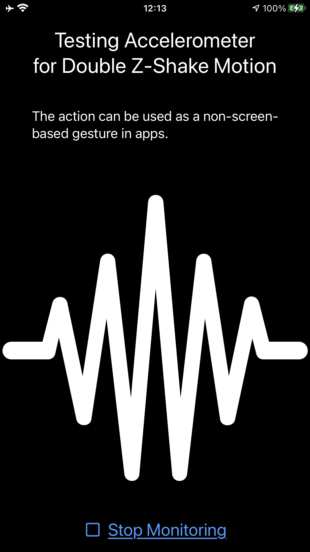
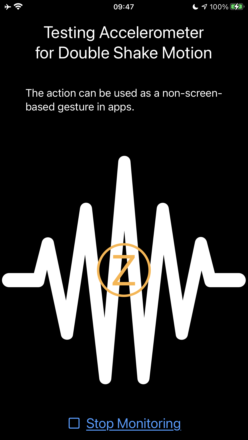
Generalize detection to all axes

diff --git a/CoreMotionGesture/Accelerometer/DoubleShakeDetector.swift b/CoreMotionGesture/Accelerometer/DoubleShakeDetector.swift
@@ -1,0 +1,179 @@
+import SwiftUI
+import Combine
+import CoreMotion
+
+enum MotionError: Error
+{
+    case noDataAvailable
+}
+
+protocol DoubleShakeDetectorProtocol
+{
+    var motionEventStream: MotionEventStreamProtocol? { get }
+    var monitorAxis: MonitorAxis { get }
+    func startMonitoring()
+    func stopMonitoring()
+}
+
+// Detect a double shake gesture.
+//
+// Z-axis example:
+// The Z-axis is the up and down direction according to a phone's screen aligned parallel to the ground, like a tabletop.
+//
+// Only a limited number, keepValueCount, of readings are kept to prevent using more memory.
+// The motionCutoff is the strength of the detected motion according to the standard deviation of readings.
+struct DoubleShakeDetector: DoubleShakeDetectorProtocol
+{
+    let motionManager: CMMotionManager
+    let motionCutoff: Double = 0.55
+    let readingMinimum = 3
+    let keepValueCount = 2
+    let shakeDetectionMinimum = 4
+    let timeWindowMin: TimeInterval = 0.3
+    let timeWindowMax: TimeInterval = 0.8
+    let accelerometerUpdateInterval: TimeInterval = 1 / 100 // 100 Hz
+    let motionEventStream: MotionEventStreamProtocol?
+    let monitorAxis: MonitorAxis
+
+    init(motionManager: CMMotionManager, monitorAxis: MonitorAxis)
+    {
+        self.motionManager = motionManager
+        motionManager.accelerometerUpdateInterval = accelerometerUpdateInterval
+        self.motionEventStream = MotionEventStream()
+        self.monitorAxis = monitorAxis
+    }
+
+    func startMonitoring()
+    {
+        var readingCount = 0
+        var shakeCount = 0
+        var motionValues = [Double]()
+        var queue: OperationQueue
+        var startTime = Date()
+        var endTime = Date()
+
+        if motionManager.isAccelerometerAvailable
+        {
+            queue = .main
+            // We read CMAccelerometerData below.
+            motionManager.startAccelerometerUpdates(to: queue)
+            { data, error in
+                guard error == nil else { fatalError(error!.localizedDescription) }
+                guard let data = data else { fatalError(MotionError.noDataAvailable.localizedDescription) }
+                let value = accelerationValue(data: data)
+
+                // When not using the main queue, EXC_BAD_ACCESS happens here.
+                motionValues.append(value)
+
+                if readingCount <= readingMinimum
+                {
+                    readingCount += 1
+                    startTime = Date()
+                    print("\tread")
+                }
+
+                // We seed readingMinimum readings to ensure detection is active.
+                if readingCount > readingMinimum
+                {
+                    if fabs(standardDeviation(values: motionValues)) > motionCutoff
+                    {
+                        shakeCount += 1
+                    }
+                    if shakeCount > shakeDetectionMinimum
+                    {
+                        endTime = Date()
+                        let interval = endTime.timeIntervalSince(startTime)
+                        if interval <= timeWindowMax && interval >= timeWindowMin
+                        {
+                            print("double shake, interval: \(interval)")
+                            sendMotionEvent()
+                        }
+                        resetReadings()
+                    }
+                }
+                while motionValues.count > keepValueCount
+                {
+                    motionValues.remove(at: motionValues.count - 1)
+                }
+                let interval = endTime.timeIntervalSince(startTime)
+                if interval > timeWindowMax
+                {
+                    startTime = Date()
+                }
+            }
+        }
+
+        func resetReadings()
+        {
+            readingCount = 0
+            shakeCount = 0
+            startTime = Date()
+        }
+    }
+
+    func stopMonitoring()
+    {
+        motionManager.stopAccelerometerUpdates()
+    }
+
+    private func sendMotionEvent()
+    {
+        var event: MotionEvent = .none
+        switch monitorAxis
+        {
+        case .x: event = .doubleXShake
+        case .y: event = .doubleYShake
+        case .z: event = .doubleZShake
+        }
+        motionEventStream?.sendMotionEvent(event: event)
+    }
+
+    private func accelerationValue(data: CMAccelerometerData) -> Double
+    {
+        var accelerationValue: Double?
+        switch monitorAxis
+        {
+        case .x:
+            accelerationValue = data.acceleration.x
+        case .y:
+            accelerationValue = data.acceleration.y
+        case .z:
+            accelerationValue = data.acceleration.z
+        }
+        if let accelerationValue = accelerationValue
+        {
+            return accelerationValue
+        }
+        
+        return 0.0
+    }
+}
+
+extension DoubleShakeDetector
+{
+    func mean(values: [Double]) -> Double
+    {
+        var total = 0.0
+        for value in values
+        {
+            total += value
+        }
+
+        return total / Double(values.count)
+    }
+
+    func standardDeviation(values: [Double]) -> Double
+    {
+        let mean = mean(values: values)
+        var sumOfSquaredDifferences = 0.0
+        var difference = 0.0
+
+        for value in values
+        {
+            difference = value - mean
+            sumOfSquaredDifferences += difference * difference
+        }
+
+        return sqrt(sumOfSquaredDifferences / Double(values.count))
+    }
+}

diff --git a/CoreMotionGesture/View/ContentView.swift b/CoreMotionGesture/View/ContentView.swift
@@ -7,6 +7,10 @@ struct ContentView: View
     let padding: CGFloat = 20
     let visible: CGFloat = 100
     let invisible: CGFloat = 0
+    let axisFontSize: CGFloat = 72
+    let circleWidth: CGFloat = 200
+    let circleLinewidth: CGFloat = 4
+    let circleColor: Color = .orange
     let label: (MonitoringButtonState) -> Label =
     { state in
         Label(state.buttonText(), systemImage: state.imageName())
@@ -27,17 +31,24 @@ struct ContentView: View
         print("detector \(motionEventViewModel.monitoringButtonState)")
         return VStack(spacing: vspace)
         {
-            Text("Testing Accelerometer\nfor Double Z-Shake Motion")
+            Text("Testing Accelerometer\nfor Double Shake Motion")
                 .multilineTextAlignment(.center)
                 .font(.title2)
             Text("The action can be used as a non-screen-based gesture in apps.")
                 .font(.caption)
                 .padding(padding)
             Spacer()
-            Image(systemName: MonitoringSystemImage.doubleZShaked.rawValue)
-                .resizable()
-                .scaledToFill()
-                .opacity(motionEventViewModel.doubleZShaked ? visible : invisible)
+            ZStack
+            {
+                Image(systemName: MonitoringSystemImage.doubleZShaked.rawValue)
+                    .resizable()
+                    .scaledToFill()
+                    .opacity(motionEventViewModel.doubleZShaked ? visible : invisible)
+                Text(motionEventViewModel.motionDetector.monitorAxis.asText())
+                    .font(.system(size: axisFontSize))
+                    .foregroundColor(circleColor)
+                    .overlay(Circle().stroke(circleColor, lineWidth: circleLinewidth).frame(width: circleWidth))
+            }
             Spacer()
             Button
             {
@@ -72,10 +83,9 @@ struct ContentView: View
         {
             await motionEventViewModel
                 .handleMonitoring(
-                    buttonState: motionEventViewModel.monitoringButtonState
-                )
+                buttonState: motionEventViewModel.monitoringButtonState
+            )
         }
-
     }
 }
 
@@ -85,7 +95,7 @@ struct ContentView_Previews: PreviewProvider
     {
         ContentView(
             motionEventViewModel: CoreMotionGestureViewModel(
-                motionDetector: MockMotionDetector()
+                motionDetector: MockMotionDetector(monitorAxis: .z)
             )
         )
     }

diff --git a/CoreMotionGesture/App/CoreMotionGestureApp.swift b/CoreMotionGesture/App/CoreMotionGestureApp.swift
@@ -5,14 +5,15 @@ import CoreMotion
 struct CoreMotionGestureApp: App
 {
     let motionManager: CMMotionManager
-    let motionDetector: DoubleZShakeDetectorProtocol
+    let motionDetector: DoubleShakeDetectorProtocol
     let hapticGenerator: HapticGeneratorProtocol
 
     init()
     {
         self.motionManager = CMMotionManager()
-        self.motionDetector = DoubleZShakeDetector(
-            motionManager: motionManager
+        self.motionDetector = DoubleShakeDetector(
+            motionManager: motionManager,
+            monitorAxis: .z
         )
         self.hapticGenerator = HapticGenerator(
             generator: UINotificationFeedbackGenerator()
@@ -26,9 +27,7 @@ struct CoreMotionGestureApp: App
             ContentView(
                 hapticGenerator: hapticGenerator,
                 motionEventViewModel: CoreMotionGestureViewModel(
-                    motionDetector: DoubleZShakeDetector(
-                        motionManager: CMMotionManager()
-                    )
+                    motionDetector: motionDetector
                 )
             )
         }

diff --git a/CoreMotionGesture/ViewModel/CoreMotionGestureViewModel.swift b/CoreMotionGesture/ViewModel/CoreMotionGestureViewModel.swift
@@ -11,11 +11,11 @@ final class CoreMotionGestureViewModel: ObservableObject, MotionDetectorHandlerP
     @Published var motionEvent: MotionEvent
     @Published var doubleZShaked: Bool
     @Published var monitoringButtonState: MonitoringButtonState
-    let motionDetector: DoubleZShakeDetectorProtocol
+    let motionDetector: DoubleShakeDetectorProtocol
     let waveImageDelay: TimeInterval = 1.5
     var cancellables = [AnyCancellable]()
 
-    init(motionDetector: DoubleZShakeDetectorProtocol)
+    init(motionDetector: DoubleShakeDetectorProtocol)
     {
         self.motionEvent = .none
         self.doubleZShaked = false

diff --git a/UnitTests/CoreMotionGestureTests.swift b/UnitTests/CoreMotionGestureTests.swift
@@ -7,6 +7,12 @@ final class CoreMotionGestureTests: XCTestCase
     func test_detector_creation() throws
     {
         let motionManager = CMMotionManager()
-        _ = DoubleZShakeDetector(motionManager: motionManager)
+        MonitorAxis.allCases.forEach
+        {
+            _ = DoubleShakeDetector(
+                motionManager: motionManager,
+                monitorAxis: $0
+            )
+        }
     }
 }

diff --git a/CoreMotionGesture/Model/MotionEvent.swift b/CoreMotionGesture/Model/MotionEvent.swift
@@ -1,5 +1,22 @@
 enum MotionEvent
 {
+    case doubleXShake
+    case doubleYShake
     case doubleZShake
     case none
+}
+
+enum MonitorAxis: CaseIterable
+{
+    case x, y, z
+
+    func asText() -> String
+    {
+        switch self
+        {
+        case .x: return "X"
+        case .y: return "Y"
+        case .z: return "Z"
+        }
+    }
 }

diff --git a/CoreMotionGesture/Mock/MockMotionDetector.swift b/CoreMotionGesture/Mock/MockMotionDetector.swift
@@ -1,5 +1,6 @@
-struct MockMotionDetector: DoubleZShakeDetectorProtocol
+struct MockMotionDetector: DoubleShakeDetectorProtocol
 {
+    var monitorAxis: MonitorAxis
     var motionEventStream: MotionEventStreamProtocol?
 
     func startMonitoring()

diff --git a/README.md b/README.md
@@ -1,12 +1,15 @@
-# Core Motion Double Z-Shake Gesture Detection Demo
+# Core Motion Double Shake Gesture Detection Demo
 
-![double-z-shake-demo.png](image%2Fdouble-z-shake-demo.png)
+<p float="left">
+    <img src="image%2Fdouble-z-shake-demo.png" width="248" />
+    <img src="image%2Faccelerometer_axes.png" width="385" /> 
+</p>
 
-We use the accelerometer to detect a custom gesture of a user shaking their device in a double Z-shaking motion.
-The Z-axis for an iPhone or iPad corresponds to a perpendicular line projected through the face of the screen when it is positioned parallel to the ground, like a tabletop.
+In SwiftUI, we use the accelerometer to detect a custom gesture of a user shaking their device in a double shaking motion.
+For example, the Z-axis for an iPhone or iPad corresponds to a perpendicular line projected through the face of the screen when it is positioned parallel to the ground, like a tabletop.
 We require a double motion to identify a user's signal in a noisy background of detections sensitive to small movements.
 
-- We show a waveform image when we detect a double Z-shake motion.
+- We show a waveform image when we detect a double shake motion.
 - The motion can be made with a crisp, double wrist flick, with the final move a little snappier, within a given time window.
 - We generate haptic feedback when a gesture is successfully detected.
 
@@ -26,6 +29,10 @@ Please find some notes about the detector listed below.
 - SwiftUI and Combine
 - MVVM
 - Minimum deployment = iOS 14.0
+
+## References
+
+Accelerometer axes diagram from https://developer.apple.com/documentation/coremotion/getting_raw_accelerometer_events
 
 ## License
 
